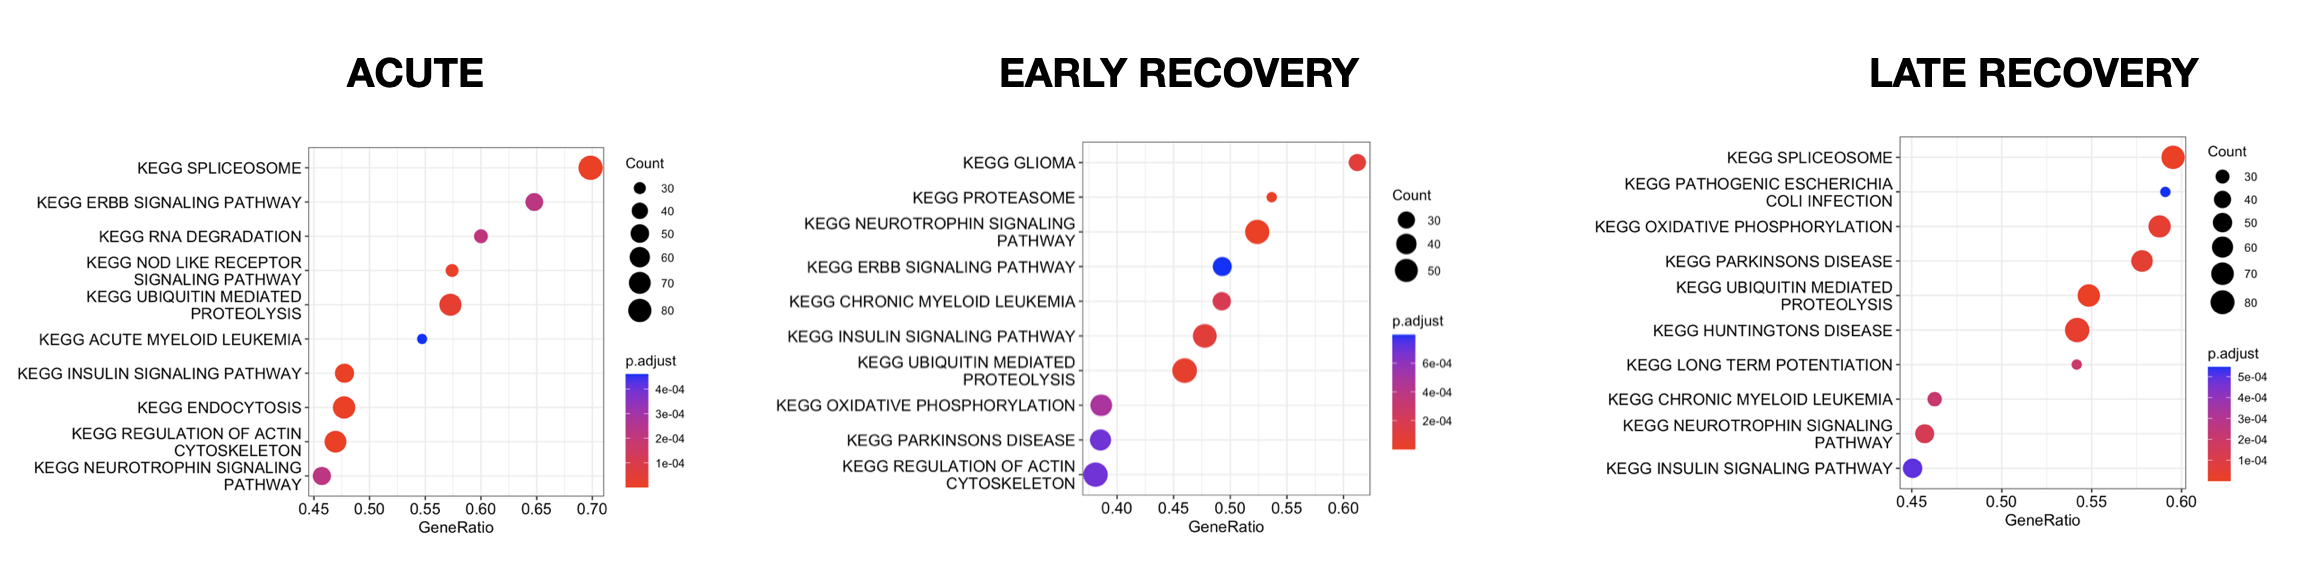
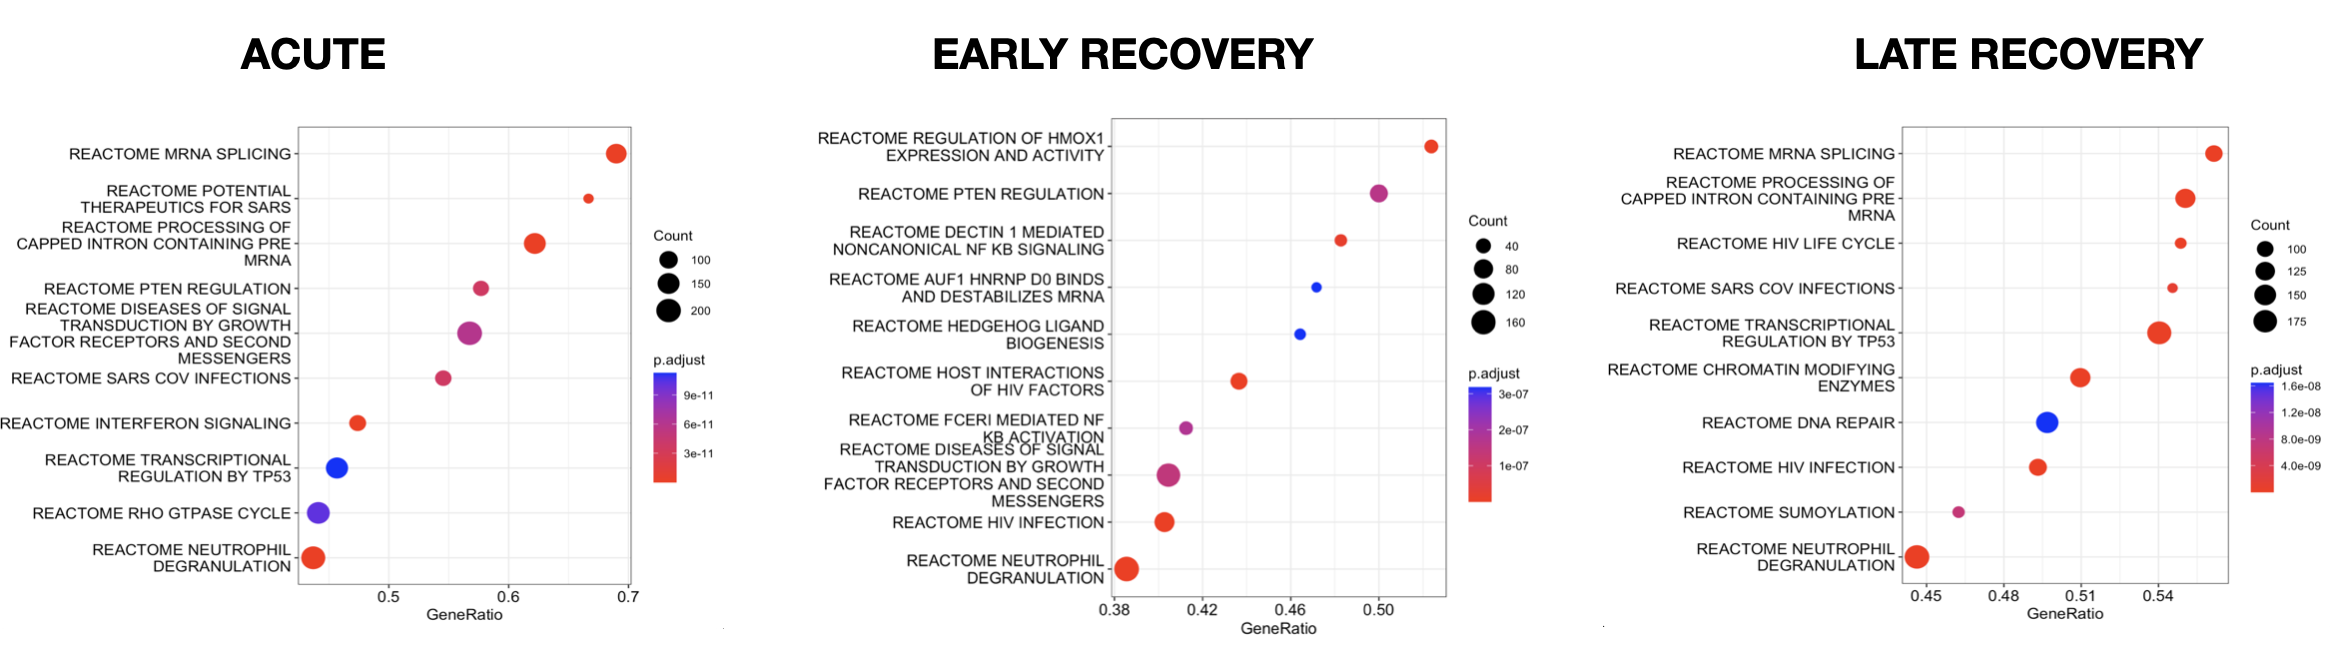
UPDATED REPORT

diff --git a/W2/readme.md b/W2/readme.md
@@ -35,29 +35,29 @@ For the DEG's, for the analysis with DESEQ2 (which the authors also used) we obt
 Regarding the difference between VOOM and TREND,  we obtained a higher number for the downregulated using VOOM, while when using TREND we obtained a higher number for the upregulated.
 
 
+
 |                | **Reported <br>Results** |      **DESEQ2**     |   **LIMMA<br>VOOM**  |  **LIMMA<br>TREND**  |
 |:--------------:|:------------------------:|:-------------------:|:--------------------:|:--------------------:|
-|      Acute     |    184 up<br>155 down    |  418 up<br>855 down |  661 up<br>1011 down |  651 up<br>669 down  |
-| Early Recovery |    318 up<br>203 down    | 506 up<br>4559 down | 1928 up<br>2896 down | 1852 up<br>2825 down |
-|  Late Recovery |      Hardly any DEGs     |   7 up<br>64 down   |  696 up<br>719 down  |  674 up<br>570 down  |
+|      Acute     |    184 up<br>155 down    |  418 up<br>855 down |  332 up<br>629 down |  651 up<br>669 down  |
+| Early Recovery |    318 up<br>203 down    | 506 up<br>4559 down | 1186 up<br>2086 down | 1852 up<br>2825 down |
+|  Late Recovery |      Hardly any DEGs     |   7 up<br>64 down   |  402 up<br>326 down  |  674 up<br>570 down  |
 
 
 ### Biological Interpretation
 
-We performed GSEA analysis using KEGG pathways and for Acute samples we observed that the expression of genes associated NOD-like receptors involved in the regulation of innate immune response were affected in agreement with what the author reported. 
+We performed GSEA analysis using REACTOME pathways using the LIMMA VOOM results. For Acute samples we observed that the expression of genes associated interferon (IFN) pathway that play a critical role in the human immune response were affected. This is in agreement with what the author reported: immune pathways.
 
-For early recovery samples we observed genes asociated with Glioma, Proteasome, 
-Neurotrophin signaling, myeloid leukemia activity. But none were related to what the authos reported: genes encoding chemokines were upregulated, along with important intracellular immunomodulatory proteins and transcription factors. This could be due to the difference in DE method used (Limma Voom vs DESEQ used by the authors)
+For early recovery samples we observed genes asociated with Nuclear Factor Kappa-B (NF-κB) that eventually leads to the production of inflammatory cytokines and NF-kB activation by FCERI that also results in the synthesis of several cytokines. This is in agreement with what the authos reported: genes encoding chemokines were upregulated, along with important intracellular immunomodulatory proteins and transcription factors. 
 
 |                |                                                              Reported Results                                                              |                            My GSEA Results                           |
 |:--------------:|:------------------------------------------------------------------------------------------------------------------------------------------:|:--------------------------------------------------------------------:|
-|      Acute     | immune pathways: antigenic presentation, innate<br>immune responses and MAPK and NF-κ<br>B signallingmetabolic processes: lipid metabolism |                          NOD like receptors                          |
-| Early Recovery |                              wound healing and chemokine activities<br>intracellular immunomodulatory proteins                             | Glioma, Proteasome, <br>Neurotrophin signaling,<br> myeloid leukemia |
+|      Acute     | immune pathways: antigenic presentation, innate<br>immune responses and MAPK and NF-κ<br>B signalling metabolic processes: lipid metabolism |                          Neutrophil degranulation <br>Interferon (IFN) pathway                         |
+| Early Recovery |                              wound healing and chemokine activities<br>intracellular immunomodulatory proteins                             | NFKB activation <br>Neurotrophil degranulation |
+
 <figure>
     <img src="./content/imag/BIOINT.PNG"    
     <figcaption> BubbleGUM gene set enrichment analysis (GSEA) map for each disease state.</figcaption>
 </figure>
-
 
 
 ## Paper Methods 
@@ -78,7 +78,7 @@ Neurotrophin signaling, myeloid leukemia activity. But none were related to what
 
 6. DE analysis
     - Normalization
-    - DE **DESeq2** `P < 0.05` and `|log2 > 2|`
+    - DE **DESeq2** `P < 0.05` and `|log2 > 1|`
 
 
 
